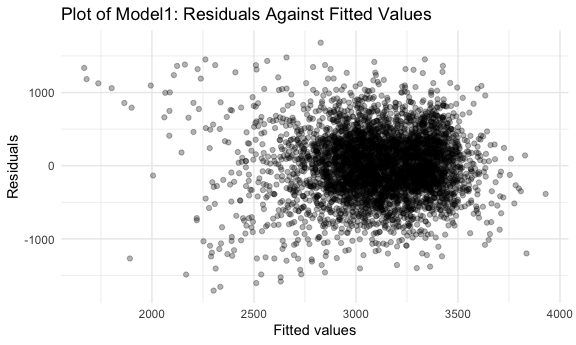
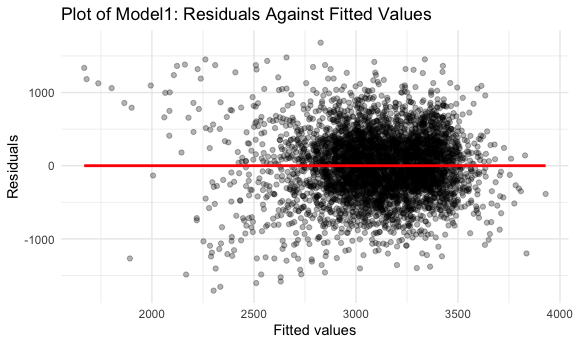
Compare the model to two other models. Complete Problem 1.

Changed region(s): [[0.125, 0.4638, 0.9688, 0.4928]]

diff --git a/p8105_hw6_yc4018.md b/p8105_hw6_yc4018.md
@@ -5,6 +5,8 @@ Yuxuan Chen
 
 ``` r
 library(tidyverse)
+library(modelr)
+library(mgcv)
 
 knitr::opts_chunk$set(
   fig.width = 6,
@@ -21,9 +23,11 @@ options(
 
 scale_colour_discrete = scale_colour_viridis_d
 scale_fill_discrete = scale_fill_viridis_d
+
+set.seed(1)
 ```
 
-**Problem 1**
+### **Problem 1**
 
 understand the effects of several variables on a child’s birthweight.
 
@@ -60,7 +64,8 @@ sum(is.na(birthweight_df))
 
     ## [1] 0
 
--   Through data cleaning, I changed the `babysex`, `frace`, `malform`,
+-   The dimension of this `birthweight_df` dataset is (4342, 20).
+    Through data cleaning, I changed the `babysex`, `frace`, `malform`,
     and `mrace` these categorical variables from numeric to factor.
     Also, after checking for missing data, there are no missing values
     in this dataset.
@@ -103,11 +108,77 @@ birthweight_df %>%
   modelr::add_residuals(model_fit1) %>% 
   ggplot(aes(x = pred, y = resid)) +
   geom_point(alpha = .3) +
+  geom_smooth(method = "lm", se = FALSE, color = "red") +
   labs(
     title = "Plot of Model1: Residuals Against Fitted Values",
     x = "Fitted values",
-    y = "Residuals"
-    )
+    y = "Residuals")
 ```
 
 <img src="p8105_hw6_yc4018_files/figure-gfm/unnamed-chunk-4-1.png" width="90%" />
+
+4.  Fit two other models:
+
+-   One using length at birth and gestational age as predictors (main
+    effects only)
+
+``` r
+model_fit2 = lm(bwt ~ blength + gaweeks, data = birthweight_df)
+```
+
+-   One using head circumference, length, sex, and all interactions
+    (including the three-way interaction) between these
+
+``` r
+model_fit3 = lm(bwt ~ bhead + blength + babysex + bhead * blength + 
+                  bhead * babysex + blength * babysex + bhead * blength * babysex, data = birthweight_df)
+```
+
+5.  Compute rmse: cross validation.
+
+``` r
+cv_df = 
+  crossv_mc(birthweight_df, 100) %>% 
+  mutate(
+    train = map(train, as_tibble),
+    test = map(test, as_tibble))
+
+cv_df = 
+  cv_df %>% 
+  mutate(
+    model_fit1 = map(.x = train, ~lm(bwt ~ gaweeks + mrace + momage + ppbmi + parity + smoken, data = .x)),
+    model_fit2 = map(.x = train, ~lm(bwt ~ blength + gaweeks, data = .x)),
+    model_fit3 = map(.x = train, ~lm(bwt ~ bhead + blength + babysex + bhead * blength + 
+                                       bhead * babysex + blength * babysex + bhead * blength * babysex, data = .x))) %>% 
+  mutate(
+    rmse_model_1 = map2_dbl(.x = model_fit1, .y = test, ~rmse(model = .x, data = .y)), 
+    rmse_model_2 = map2_dbl(.x = model_fit2, .y = test, ~rmse(model = .x, data = .y)),
+    rmse_model_3 = map2_dbl(.x = model_fit3, .y = test, ~rmse(model = .x, data = .y)))
+```
+
+6.  violin plot of RMSEs
+
+``` r
+cv_df %>% 
+  select(starts_with("rmse")) %>% 
+  pivot_longer(
+    everything(),
+    names_to = "model", 
+    values_to = "rmse",
+    names_prefix = "rmse_") %>% 
+  ggplot(aes(x = model, y = rmse)) +
+  geom_violin() +
+  labs(
+     title = "Violin Plot of RMSEs for Three Models",
+     x = "Model",
+     y = "RMSE")
+```
+
+<img src="p8105_hw6_yc4018_files/figure-gfm/unnamed-chunk-8-1.png" width="90%" />
+
+-   Based on the above violin plot of RMSEs for three models, since the
+    model 3 has the smallest RMSE value, it is the best model; and the
+    model 1 which with the largest RMSE value is the worst model. Hence,
+    the model that has highest prediction accuracy is the one to use
+    `head circumference`, `length`, `sex`, and all interactions as
+    predictors to predict child’s birthweight.
